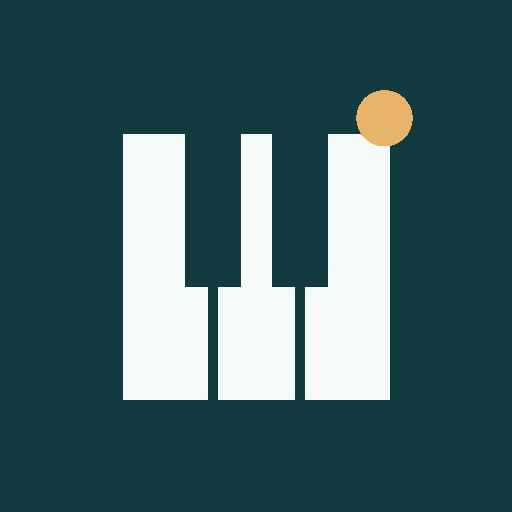
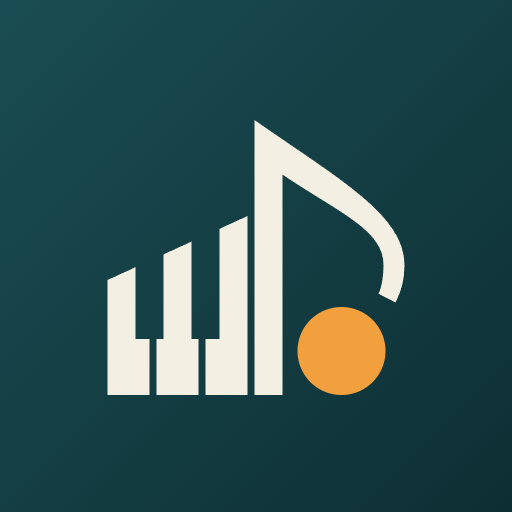
Nova identidade: símbolo do Compasso e frase de Horowitz
- símbolo (barras em crescendo + colcheia) na marca, telas vazias, carregamento e cartão de Hoje
- ícones do app (favicon, tela de início, PWA) gerados a partir de brand/icone-app.svg
- laranja do símbolo vira o dourado da interface; marca em creme
- barra lateral cita Vladimir Horowitz e cabe em telas de notebook

Changed region(s): [[0.1875, 0.1562, 0.8125, 0.7812]]

diff --git a/src/App.tsx b/src/App.tsx
@@ -22,10 +22,10 @@ import {
   X,
   WifiOff,
   Check,
-  Music2,
   AlertTriangle,
   Info,
 } from 'lucide-react';
+import BrandSymbol from './components/BrandSymbol';
 import Dashboard from './components/Dashboard';
 import { Library, PieceForm } from './components/Library';
 import { ConfirmProvider, Modal, useTopModal, type Notify, type NotifyTone } from './components/common';
@@ -106,7 +106,7 @@ class ErrorBoundary extends Component<{ children: ReactNode }, { error: boolean 
 function ViewLoading() {
   return (
     <div className="view-loading" role="status">
-      <Music2 size={22} aria-hidden="true" />
+      <BrandSymbol size={26} />
       <span>Abrindo…</span>
     </div>
   );
@@ -786,7 +786,7 @@ function Shell() {
       </a>
       <div className="mobile-top">
         <button className="brand" aria-label="compasso: ir para Hoje" onClick={() => goView('home')}>
-          <Music2 size={24} aria-hidden="true" />
+          <BrandSymbol size={26} className="brand-symbol" />
           <span aria-hidden="true">
             compasso<span className="brand-dot">.</span>
           </span>
@@ -821,9 +821,7 @@ function Shell() {
         className={`sidebar ${mobile ? 'open' : ''}`}
       >
         <button className="brand" aria-label="compasso: ir para Hoje" onClick={() => goView('home')}>
-          <div className="brand-mark" aria-hidden="true">
-            <Music2 size={25} />
-          </div>
+          <BrandSymbol size={34} className="brand-symbol" />
           <span aria-hidden="true">
             compasso<span className="brand-dot">.</span>
           </span>
@@ -844,14 +842,15 @@ function Shell() {
           ))}
         </nav>
         <div className="sidebar-bottom">
-          <div className="sidebar-note">
-            <span className="eyebrow">O ESTUDO É SEU.</span>
-            <p>
-              Cada pequena melhora
-              <br />
-              merece ser ouvida.
-            </p>
-          </div>
+          <figure className="sidebar-note">
+            <blockquote>
+              <p>
+                O piano é o instrumento mais fácil de tocar no primeiro dia e o mais difícil de dominar no
+                quinquagésimo primeiro ano.
+              </p>
+            </blockquote>
+            <figcaption>Vladimir Horowitz</figcaption>
+          </figure>
           <button
             className={`settings-nav ${onSettings ? 'active' : ''}`}
             aria-current={onSettings ? 'page' : undefined}

diff --git a/src/styles.css b/src/styles.css
@@ -30,7 +30,10 @@
   --accent-strong: #0e5a5e;
   --accent-soft: #e3f1ee;
   --accent-ink: #ffffff; /* text and icons on --accent */
-  --gold: #e8b469;
+  /* Brand (brand/simbolo.svg): cream strokes and the orange note head */
+  --brand-cream: #f4efe3;
+  --brand-accent: #f2a03d;
+  --gold: var(--brand-accent);
   --gold-ink: #7a5410;
 
   /* Feedback */
@@ -515,15 +518,10 @@ a {
   font-family: var(--font-serif);
   font-size: var(--fs-brand);
   letter-spacing: -0.03em;
-  color: var(--nav-ink-strong);
+  color: var(--brand-cream);
 }
-.brand-mark {
-  height: 40px;
-  width: 36px;
-  border: 1px solid var(--nav-line);
-  border-radius: var(--radius-sm);
-  display: grid;
-  place-items: center;
+.brand-symbol {
+  color: var(--brand-cream);
   flex-shrink: 0;
 }
 .brand-dot {
@@ -577,16 +575,50 @@ a {
   padding: var(--space-5) var(--space-3) var(--space-3);
   margin: 0 0 var(--space-4);
 }
-.sidebar-note .eyebrow {
-  color: var(--nav-muted);
+.sidebar-note blockquote {
+  margin: 0;
 }
 .sidebar-note p {
   font-family: var(--font-serif);
-  color: var(--nav-ink-strong);
-  font-size: var(--fs-xl);
+  color: var(--brand-cream);
+  font-size: var(--fs-lg);
   font-style: italic;
   line-height: 1.4;
+  margin: 0;
+}
+.sidebar-note p::before {
+  content: '“';
+  display: block;
+  font-size: 2.6em;
+  line-height: 0.6;
+  height: 0.45em;
+  color: var(--brand-accent);
+  font-style: normal;
+}
+.sidebar-note figcaption {
   margin-top: var(--space-3);
+  font-size: var(--fs-micro);
+  letter-spacing: 0.14em;
+  text-transform: uppercase;
+  color: var(--nav-muted);
+}
+.sidebar-note figcaption::before {
+  content: '— ';
+}
+/* Laptop heights: keep "Preferências e dados" reachable without scrolling the sidebar. */
+@media (max-height: 860px) {
+  .sidebar-caption {
+    margin-top: var(--space-5);
+  }
+  .sidebar-bottom {
+    padding-top: var(--space-4);
+  }
+  .sidebar-note {
+    padding-top: var(--space-4);
+  }
+  .sidebar-note p {
+    font-size: var(--fs-md);
+  }
 }
 .settings-nav {
   width: 100%;

diff --git a/src/components/BrandSymbol.tsx b/src/components/BrandSymbol.tsx
@@ -1,0 +1,35 @@
+/**
+ * The Compasso symbol: three rising bars (a crescendo) and an eighth note whose head is the accent dot.
+ * Source artwork: brand/simbolo.svg. Strokes take currentColor; the note head uses --brand-accent unless mono.
+ */
+export default function BrandSymbol({
+  size = 32,
+  mono = false,
+  className,
+}: {
+  /** Height in px; the width follows the symbol's proportions. */
+  size?: number;
+  mono?: boolean;
+  className?: string;
+}) {
+  return (
+    <svg
+      className={className}
+      viewBox="195 220 634 590"
+      height={size}
+      width={Math.round((size * 634) / 590)}
+      aria-hidden="true"
+      focusable="false"
+    >
+      <path
+        fill="currentColor"
+        d="M215,790 L215,560 L271,534.4 L271,678 L299,678 L299,790 Z M313,790 L313,678 L327,678 L327,508.8 L383,483.2 L383,678 L397,678 L397,790 Z M411,790 L411,678 L439,678 L439,457.6 L495,432 L495,790 Z"
+      />
+      <path
+        fill="currentColor"
+        d="M509,790 L509,240 C679,359 809,430 809,530 C809,558 803,582 791,605 L757,587.5 C763,575 767,555 767,530 C767,460 679,426 565,349.2 L565,790 Z"
+      />
+      <circle cx="683" cy="702" r="88" fill={mono ? 'currentColor' : 'var(--brand-accent)'} />
+    </svg>
+  );
+}

diff --git a/src/components/Dashboard.tsx b/src/components/Dashboard.tsx
@@ -6,7 +6,6 @@ import {
   BookOpen,
   Check,
   Clock3,
-  Music2,
   Play,
   Plus,
   Target,
@@ -16,6 +15,7 @@ import {
   ListPlus,
   Settings2,
 } from 'lucide-react';
+import BrandSymbol from './BrandSymbol';
 import { db } from '../db';
 import { localDay, formatDate, hands, uid, type Session } from '../domain';
 import { Badge, Empty, Field, Modal, errorText, type Notify } from './common';
@@ -245,7 +245,7 @@ export default function Dashboard({
               </button>
             </div>
             <div className="focus-emblem" aria-hidden="true">
-              <Music2 size={90} strokeWidth={0.7} />
+              <BrandSymbol size={78} />
               <span>
                 UM COMPASSO
                 <br />

diff --git a/src/components/common.tsx b/src/components/common.tsx
@@ -9,7 +9,8 @@ import {
   useSyncExternalStore,
 } from 'react';
 import type { ReactNode } from 'react';
-import { X, Music2 } from 'lucide-react';
+import { X } from 'lucide-react';
+import BrandSymbol from './BrandSymbol';
 
 export type NotifyTone = 'success' | 'error' | 'info';
 /** Shows a toast. Use tone 'error' for failures so they are not styled as a success. */
@@ -177,7 +178,7 @@ export function Empty({ title, text, action }: { title: string; text: string; ac
   return (
     <div className="empty">
       <div className="empty-icon">
-        <Music2 size={30} />
+        <BrandSymbol size={30} />
       </div>
       <h3>{title}</h3>
       <p>{text}</p>
